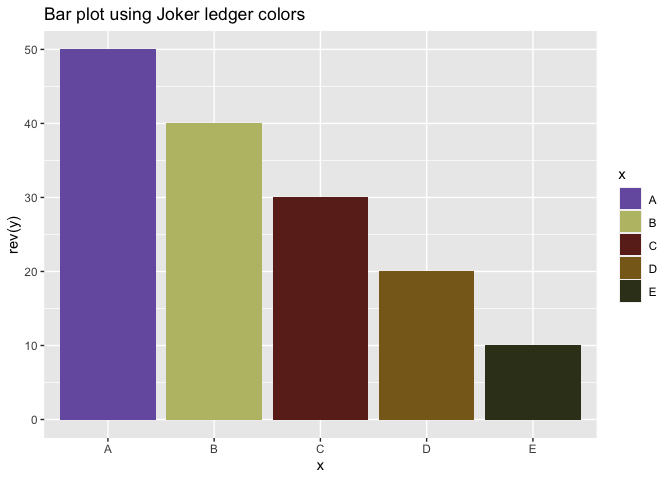
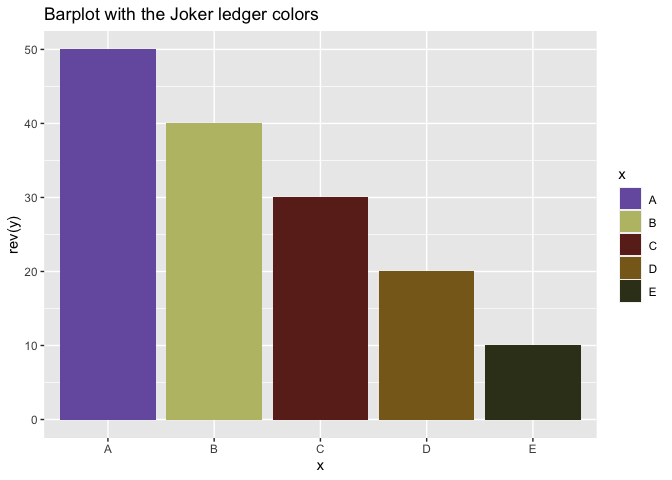
Minor fix

Changed region(s): [[0.0938, 0.0, 0.4688, 0.0625]]

diff --git a/README.md b/README.md
@@ -43,7 +43,7 @@ y = c(10, 20, 30, 40, 50)
 ggplot() +
   geom_bar(aes(x = x, y = rev(y), fill = x), stat = "identity") +
   scale_fill_manual(values = joker("phoneix")) +
-  ggtitle("Bar plot using Joker phoneix colors")
+  ggtitle("Barplot with the Joker phoneix colors")
 ```
 
 <img src="man/figures/README-example.phoneix-1.png" width="100%" />
@@ -58,7 +58,7 @@ y = c(10, 20, 30, 40, 50)
 ggplot() +
   geom_bar(aes(x = x, y = rev(y), fill = x), stat = "identity") +
   scale_fill_manual(values = joker("ledger")) +
-  ggtitle("Bar plot using Joker ledger colors")
+  ggtitle("Barplot with the Joker ledger colors")
 ```
 
 <img src="man/figures/README-example.ledger-1.png" width="100%" />
